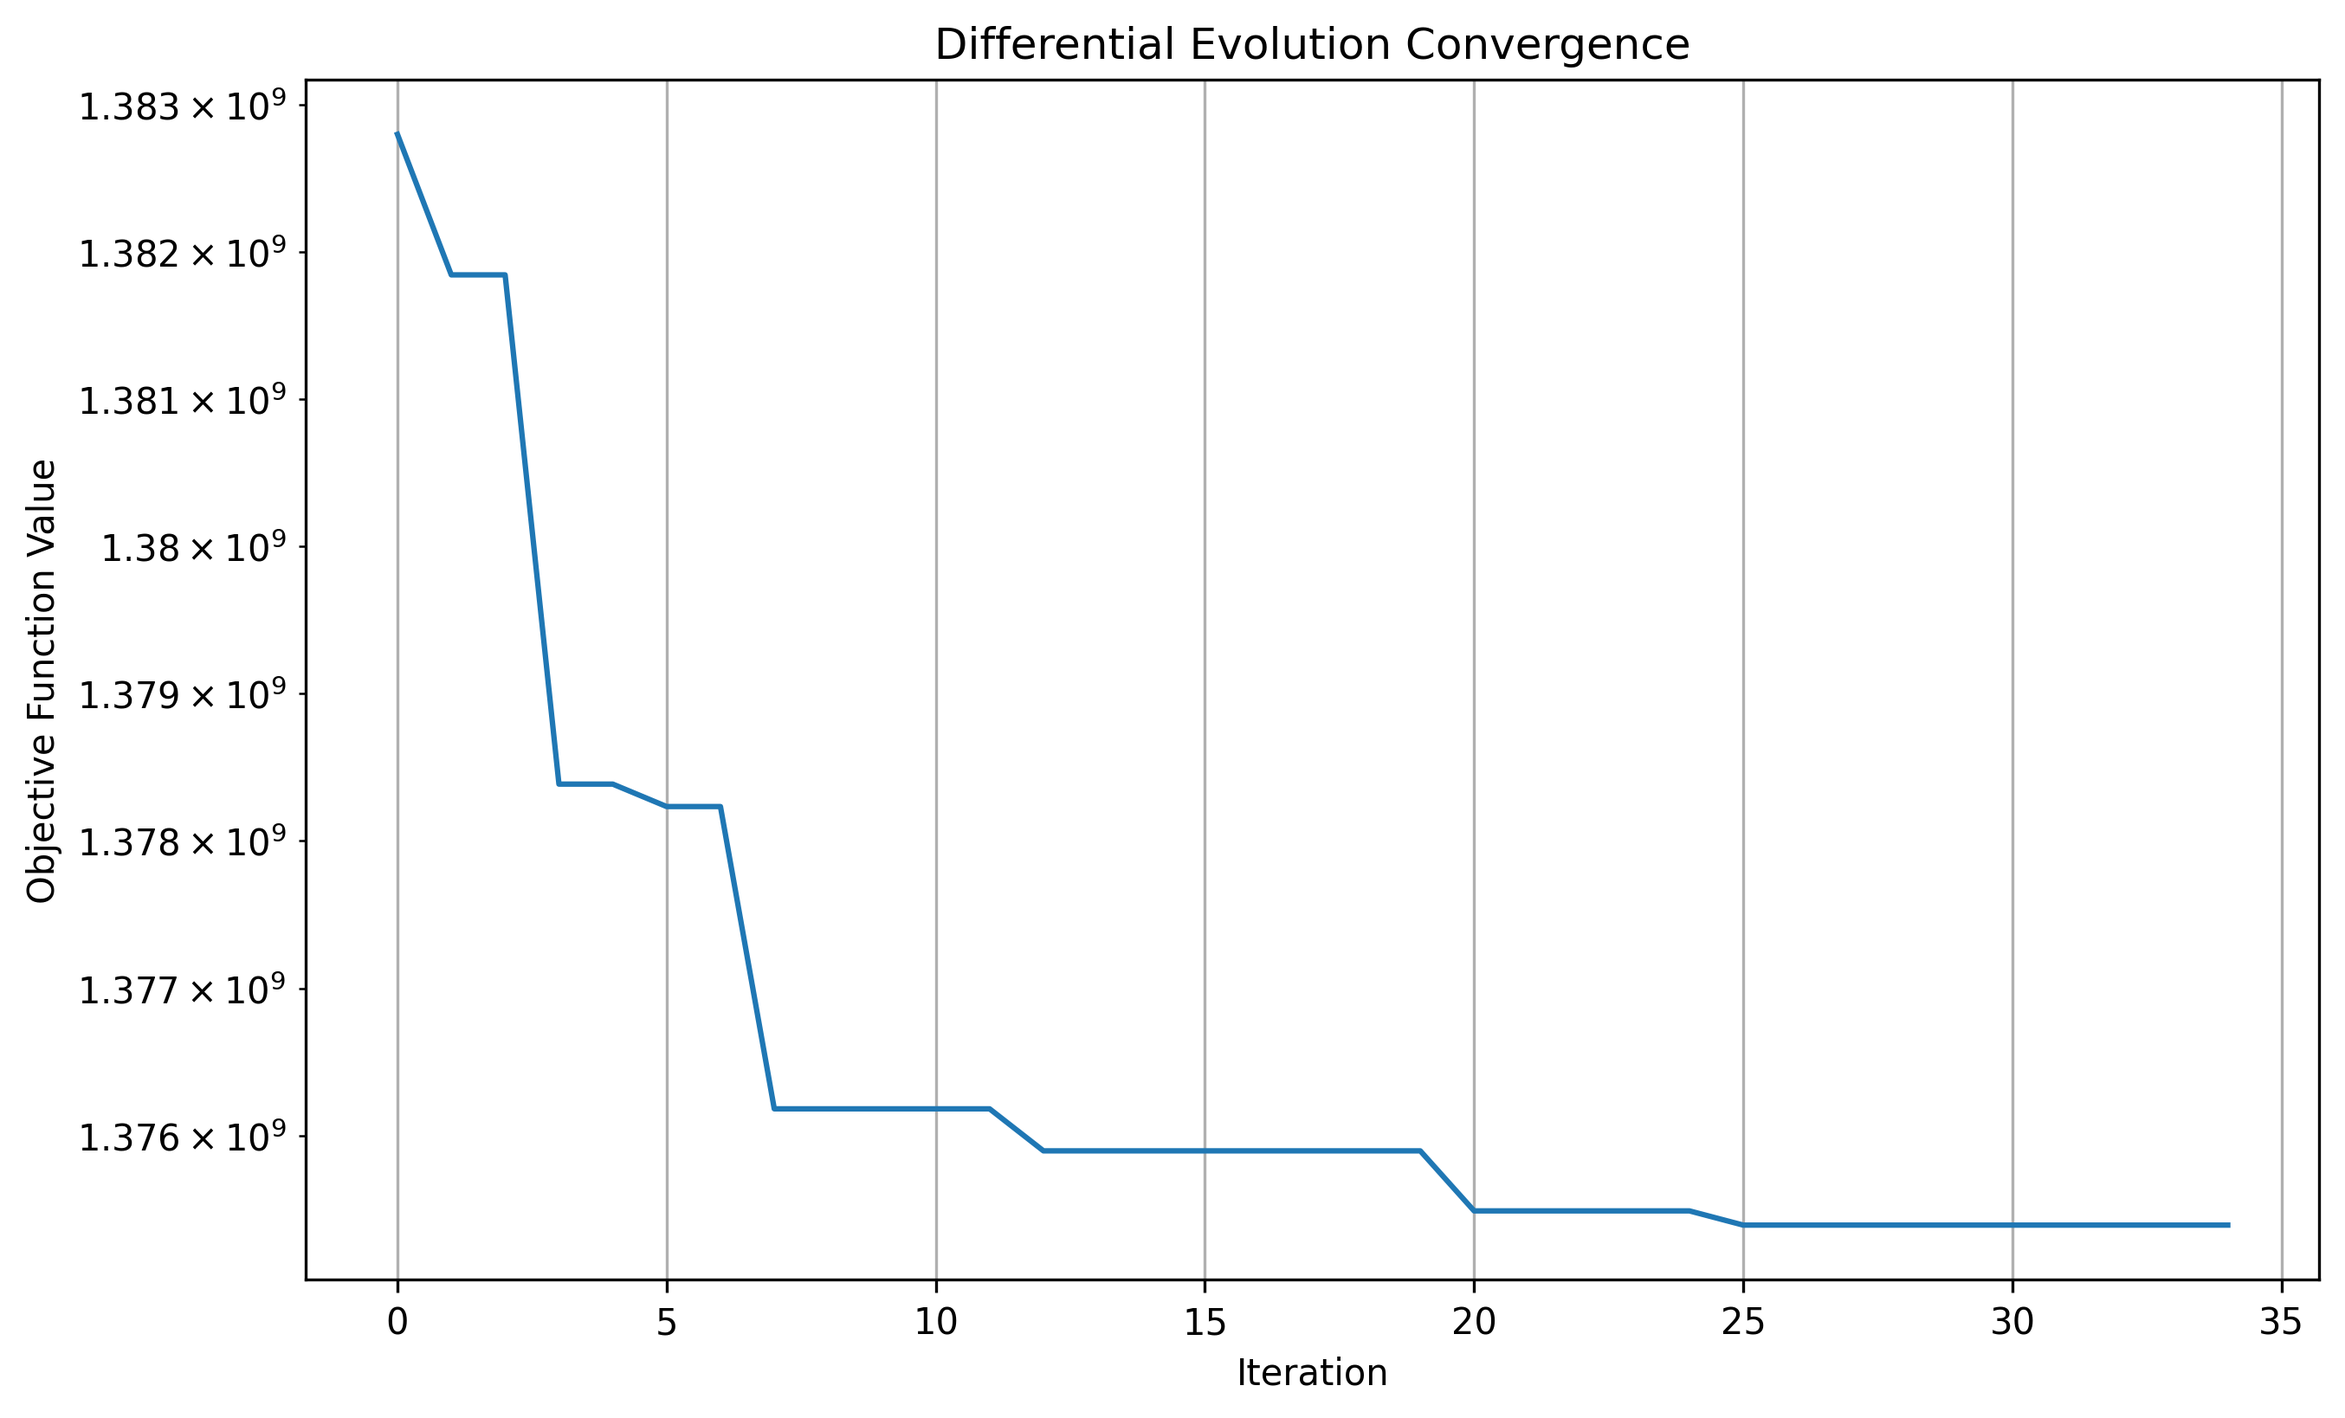
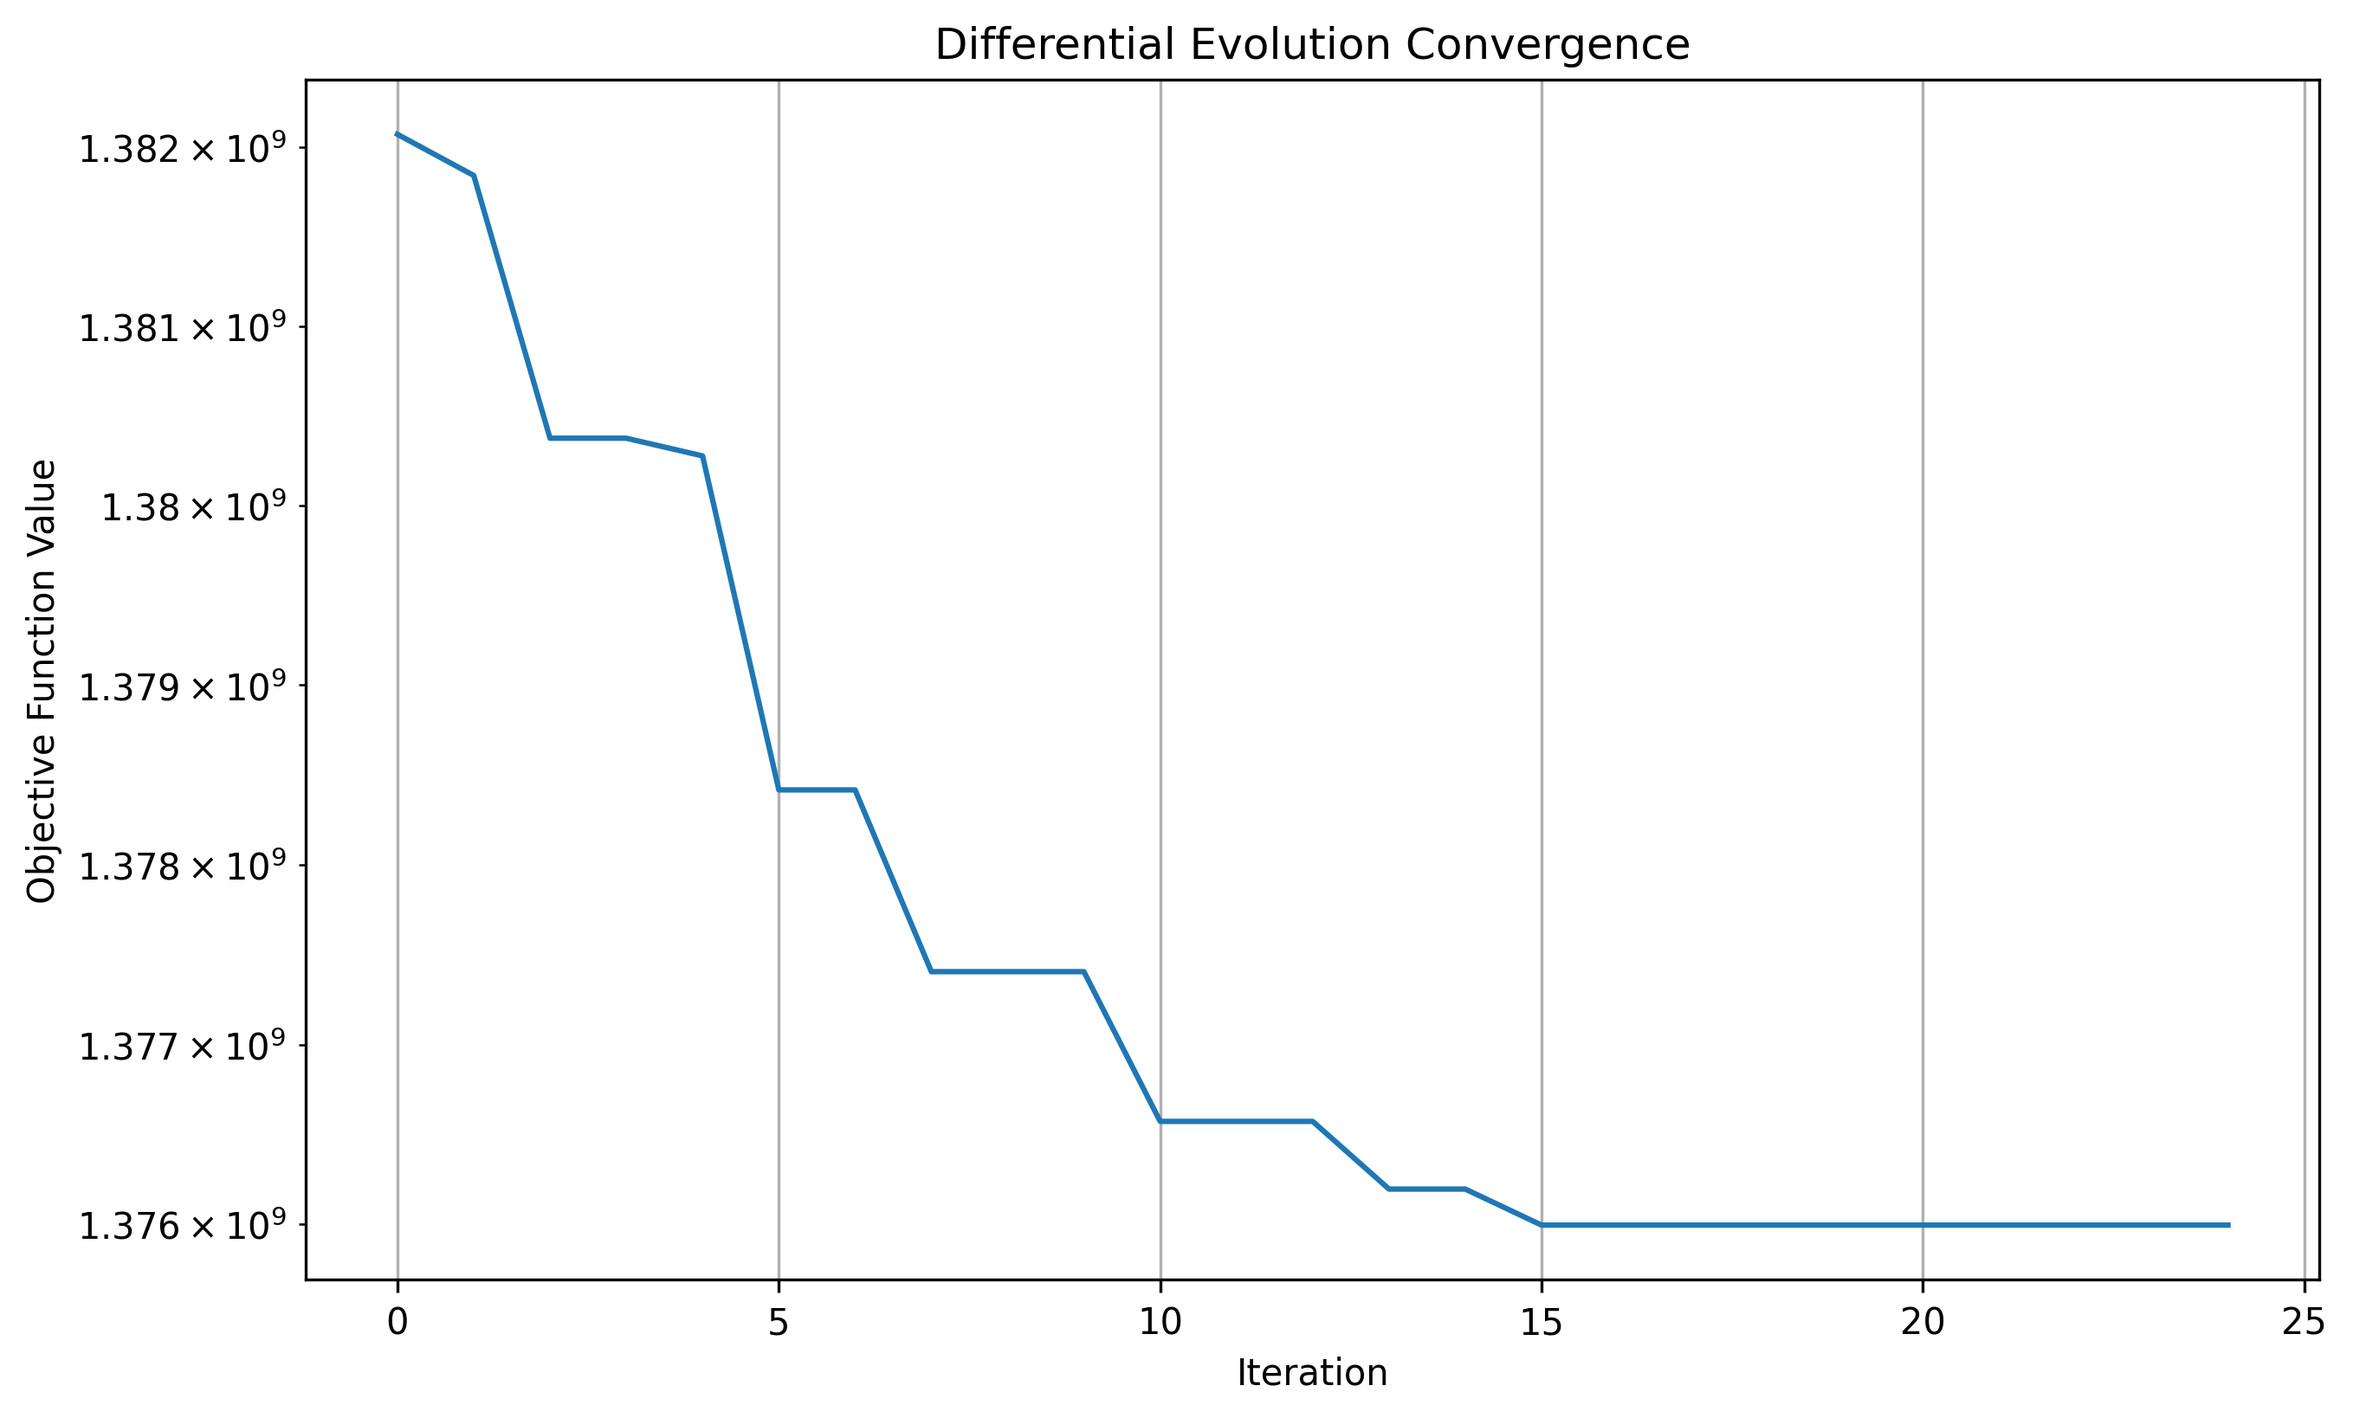
update

diff --git a/run_de_calibration.py b/run_de_calibration.py
@@ -6,17 +6,20 @@ This script provides an easy way to run DE calibration with configurable paramet
 Usage: python run_de_calibration.py
 """
 
-import torch
-import numpy as np
-import time
-import json
 import argparse
+import json
+import time
 from pathlib import Path
+
+import numpy as np
+import torch
+
+from cal_loss import Calibration_Loss
+from calibrate2_de import calibrate_de
 
 # Import our modules
 from dataset2 import cal_dataset
-from calibrate2_de import calibrate_de
-from cal_loss import Calibration_Loss
+
 
 def main():
     """Main function to run DE calibration"""
@@ -36,7 +39,7 @@ def main():
                        help='DE population size (default: 50)')
     parser.add_argument('--max-iter', type=int, default=500,
                        help='Maximum iterations (default: 500)')
-    parser.add_argument('--mutation', type=str, default='0.5,1.0',
+    parser.add_argument('--mutation', type=float, default=0.95,
                        help='DE mutation factor or range (default: 0.5,1.0)')
     parser.add_argument('--crossover', type=float, default=0.7,
                        help='DE crossover probability (default: 0.7)')
@@ -46,15 +49,6 @@ def main():
                        help='Output file for results (default: de_calibration_results.json)')
 
     # Regularization options
-    parser.add_argument('--reg-type', type=str, default=None,
-                       choices=['l2', 'l1', 'weighted', 'bounds', 'combined', 'adaptive', 'multi'],
-                       help='Regularization type (default: None)')
-    parser.add_argument('--reg-weight', type=float, default=0.1,
-                       help='Regularization weight (default: 0.1)')
-    parser.add_argument('--reg-param-weights', type=str, default='1.0,1.0,1.0,5.0,5.0',
-                       help='Parameter weights for weighted regularization (default: 1.0,1.0,1.0,5.0,5.0)')
-    parser.add_argument('--reg-multi-weights', type=str, default='1.0,0.1,0.1',
-                       help='Multi-objective weights [data,param,constraint] (default: 1.0,0.1,0.1)')
     parser.add_argument('--cpu', action='store_true',
                        help='Force CPU usage (default: auto-detect)')
     parser.add_argument('--verbose', action='store_true',
@@ -80,40 +74,11 @@ def main():
     print(f"   Returns data: {args.returns_data}")
     print(f"   Population size: {args.popsize}")
     print(f"   Max iterations: {args.max_iter}")
-    # Parse mutation parameter
-    if ',' in args.mutation:
-        mutation_range = tuple(map(float, args.mutation.split(',')))
-        mutation_str = f"range {mutation_range}"
-    else:
-        mutation_range = float(args.mutation)
-        mutation_str = f"fixed {mutation_range}"
 
-    print(f"   Mutation factor: {mutation_str}")
+    # print(f"   Mutation factor: {mutation_str}")
     print(f"   Crossover prob: {args.crossover}")
     print(f"   Random seed: {args.seed}")
     print(f"   Output file: {args.output}")
-
-    # Parse regularization options
-    regularization = None
-    if args.reg_type is not None:
-        param_weights = list(map(float, args.reg_param_weights.split(',')))
-        multi_weights = list(map(float, args.reg_multi_weights.split(',')))
-
-        regularization = {
-            'type': args.reg_type,
-            'weight': args.reg_weight,
-            'true_params': [1e-6, 1.33e-6, 0.8, 5.0, 0.2],
-            'param_weights': param_weights,
-            'multi_weights': multi_weights
-        }
-
-        print(f"   Regularization: {args.reg_type} (weight: {args.reg_weight})")
-        if args.reg_type == 'weighted':
-            print(f"   Parameter weights: {param_weights}")
-        elif args.reg_type == 'multi':
-            print(f"   Multi-objective weights: {multi_weights}")
-    else:
-        print(f"   Regularization: None")
 
     try:
         # Check if files exist
@@ -164,13 +129,11 @@ def main():
         calibrated_params, convergence_history = calibrate_de(
             model=model,
             dataset=dataset,
-            popsize=args.popsize,
-            max_iter=args.max_iter,
-            mutation=mutation_range,
-            crossover=args.crossover,
-            seed=args.seed,
-            device=device,
-            regularization=regularization
+            # popsize=args.popsize,
+            # max_iter=args.max_iter,
+            # mutation=0.95,
+            # crossover=args.crossover,
+            # seed=args.seed,
         )
 
         end_time = time.time()
@@ -212,72 +175,71 @@ def main():
             print(f"   Var ratio: {unconditional_var/empirical_var:.4f}")
 
         # Save results
-        results = {
-            'configuration': {
-                'popsize': args.popsize,
-                'max_iter': args.max_iter,
-                'mutation': mutation_range,
-                'crossover': args.crossover,
-                'seed': args.seed,
-                'device': str(device),
-                'regularization': regularization
-            },
-            'dataset_info': {
-                'num_options': len(dataset),
-                'num_returns': len(dataset.returns),
-                'options_file': args.options_data,
-                'returns_file': args.returns_data
-            },
-            'true_parameters': dict(zip(param_names, true_params.tolist())),
-            'calibrated_parameters': dict(zip(param_names, calibrated_params.tolist())),
-            'errors': {
-                'l2_error': float(l2_error),
-                'absolute_errors': dict(zip(param_names, abs_errors.tolist())),
-                'relative_errors_percent': dict(zip(param_names, rel_errors.tolist()))
-            },
-            'validation': {
-                'omega_positive': bool(omega_positive),
-                'stationarity': bool(stationarity),
-                'persistence': float(persistence),
-                'unconditional_variance': float(unconditional_var) if stationarity else None,
-                'empirical_variance': float(empirical_var)
-            },
-            'convergence_history': convergence_history,
-            'timing': {
-                'total_seconds': elapsed_time,
-                'iterations_completed': len(convergence_history)
-            },
-            'final_objective_value': convergence_history[-1] if convergence_history else None
-        }
+        # results = {
+        #     'configuration': {
+        #         'popsize': args.popsize,
+        #         'max_iter': args.max_iter,
+        #         'mutation': mutation_range,
+        #         'crossover': args.crossover,
+        #         'seed': args.seed,
+        #         'device': str(device),
+        #     },
+        #     'dataset_info': {
+        #         'num_options': len(dataset),
+        #         'num_returns': len(dataset.returns),
+        #         'options_file': args.options_data,
+        #         'returns_file': args.returns_data
+        #     },
+        #     'true_parameters': dict(zip(param_names, true_params.tolist())),
+        #     'calibrated_parameters': dict(zip(param_names, calibrated_params.tolist())),
+        #     'errors': {
+        #         'l2_error': float(l2_error),
+        #         'absolute_errors': dict(zip(param_names, abs_errors.tolist())),
+        #         'relative_errors_percent': dict(zip(param_names, rel_errors.tolist()))
+        #     },
+        #     'validation': {
+        #         'omega_positive': bool(omega_positive),
+        #         'stationarity': bool(stationarity),
+        #         'persistence': float(persistence),
+        #         'unconditional_variance': float(unconditional_var) if stationarity else None,
+        #         'empirical_variance': float(empirical_var)
+        #     },
+        #     'convergence_history': convergence_history,
+        #     'timing': {
+        #         'total_seconds': elapsed_time,
+        #         'iterations_completed': len(convergence_history)
+        #     },
+        #     'final_objective_value': convergence_history[-1] if convergence_history else None
+        # }
 
-        # Save to file
-        with open(args.output, 'w') as f:
-            json.dump(results, f, indent=2)
+        # # Save to file
+        # with open(args.output, 'w') as f:
+        #     json.dump(results, f, indent=2)
 
-        print(f"\n📁 Results saved to: {args.output}")
+        # print(f"\n📁 Results saved to: {args.output}")
 
-        # Create convergence plot if matplotlib available
-        try:
-            import matplotlib.pyplot as plt
+        # # Create convergence plot if matplotlib available
+        # try:
+        #     import matplotlib.pyplot as plt
 
-            plt.figure(figsize=(10, 6))
-            plt.plot(convergence_history, 'b-', linewidth=2)
-            plt.xlabel('Iteration')
-            plt.ylabel('Objective Function Value')
-            plt.title('Differential Evolution Convergence')
-            plt.grid(True, alpha=0.3)
-            plt.yscale('log')
+        #     plt.figure(figsize=(10, 6))
+        #     plt.plot(convergence_history, 'b-', linewidth=2)
+        #     plt.xlabel('Iteration')
+        #     plt.ylabel('Objective Function Value')
+        #     plt.title('Differential Evolution Convergence')
+        #     plt.grid(True, alpha=0.3)
+        #     plt.yscale('log')
 
-            plot_file = args.output.replace('.json', '_convergence.png')
-            plt.savefig(plot_file, dpi=300, bbox_inches='tight')
-            plt.close()
+        #     plot_file = args.output.replace('.json', '_convergence.png')
+        #     plt.savefig(plot_file, dpi=300, bbox_inches='tight')
+        #     plt.close()
 
-            print(f"📈 Convergence plot saved to: {plot_file}")
+        #     print(f"📈 Convergence plot saved to: {plot_file}")
 
-        except ImportError:
-            print("📈 Matplotlib not available, skipping convergence plot")
-        except Exception as e:
-            print(f"⚠  Could not create convergence plot: {e}")
+        # except ImportError:
+        #     print("📈 Matplotlib not available, skipping convergence plot")
+        # except Exception as e:
+        #     print(f"⚠  Could not create convergence plot: {e}")
 
         # Summary
         print(f"\n🎉 Calibration Summary:")

diff --git a/calibrate2_de.py b/calibrate2_de.py
@@ -27,6 +27,7 @@ class DifferentialEvolution:
         """
         self.bounds = torch.tensor(bounds, device=device, dtype=torch.float32)
         self.popsize = popsize
+        self.num_top = min(5, popsize // 10)  # Track top 5 or 10% of population
 
         # Handle mutation as either single value or range
         if isinstance(mutation, (tuple, list)):
@@ -50,6 +51,8 @@ class DifferentialEvolution:
         self.best_idx = 0
         self.best_fitness = float('inf')
         self.best_params = None
+        self.top_indices = []  # Track indices of top candidates
+        self.top_params = []   # Track parameters of top candidates
 
     def _initialize_population(self):
         """Initialize population within bounds"""
@@ -145,6 +148,17 @@ class DifferentialEvolution:
                         self.best_fitness = trial_fitness.item()
                         self.best_idx = i
                         self.best_params = trial.clone()
+
+                        # Update top candidates
+                        if len(self.top_params) < self.num_top:
+                            self.top_indices.append(i)
+                            self.top_params.append(trial.clone())
+                        else:
+                            # Replace worst top candidate if better
+                            worst_top_idx = torch.argmax(self.fitness[self.top_indices])
+                            if trial_fitness < self.fitness[self.top_indices[worst_top_idx]]:
+                                self.top_indices[worst_top_idx] = i
+                                self.top_params[worst_top_idx] = trial.clone()
                 else:
                     new_population[i] = self.population[i]
                     new_fitness[i] = self.fitness[i]
@@ -167,7 +181,15 @@ class DifferentialEvolution:
                         print(f"Converged after {iteration+1} iterations")
                     break
 
-        return self.best_params, self.best_fitness, convergence_history
+        # Calculate average of top candidates for final result
+        if len(self.top_params) > 0:
+            top_params_stack = torch.stack(self.top_params)
+            averaged_params = torch.mean(top_params_stack, dim=0)
+            # Project averaged params to ensure they're valid
+            averaged_params = project_parameters(averaged_params)
+            return averaged_params, self.best_fitness, convergence_history
+        else:
+            return self.best_params, self.best_fitness, convergence_history
 
 
 def project_parameters(params):
@@ -180,8 +202,8 @@ def project_parameters(params):
     return torch.stack([omega, alpha, beta, gamma, lambda_param])
 
 
-def calibrate_de(model, dataset, popsize=50, max_iter=1000, mutation=(0.5, 1.0),
-                 crossover=0.7, seed=42, device=None):
+def calibrate_de(model, dataset, popsize=100, max_iter=500, mutation=0.95,
+                 crossover=0.7, seed=42):
     """
     Calibrate GARCH parameters using Differential Evolution
 
@@ -204,7 +226,7 @@ def calibrate_de(model, dataset, popsize=50, max_iter=1000, mutation=(0.5, 1.0),
     Returns:
         Calibrated parameters as numpy array
     """
-    device = device or torch.device("cuda" if torch.cuda.is_available() else "cpu")
+    device = torch.device("cuda" if torch.cuda.is_available() else "cpu")
 
     model.eval().to(device)
     for p in model.parameters():
@@ -272,9 +294,9 @@ def main():
 
         calibrated_params, convergence_history = calibrate_de(
             model, dataset,
-            popsize=50,           # Population size
+            popsize=100,           # Population size
             max_iter=500,         # Maximum iterations
-            mutation=0.8,  # Mutation factor range
+            mutation=0.95,  # Mutation factor range
             crossover=0.7,        # Crossover probability
             seed=42,              # For reproducibility
         )
